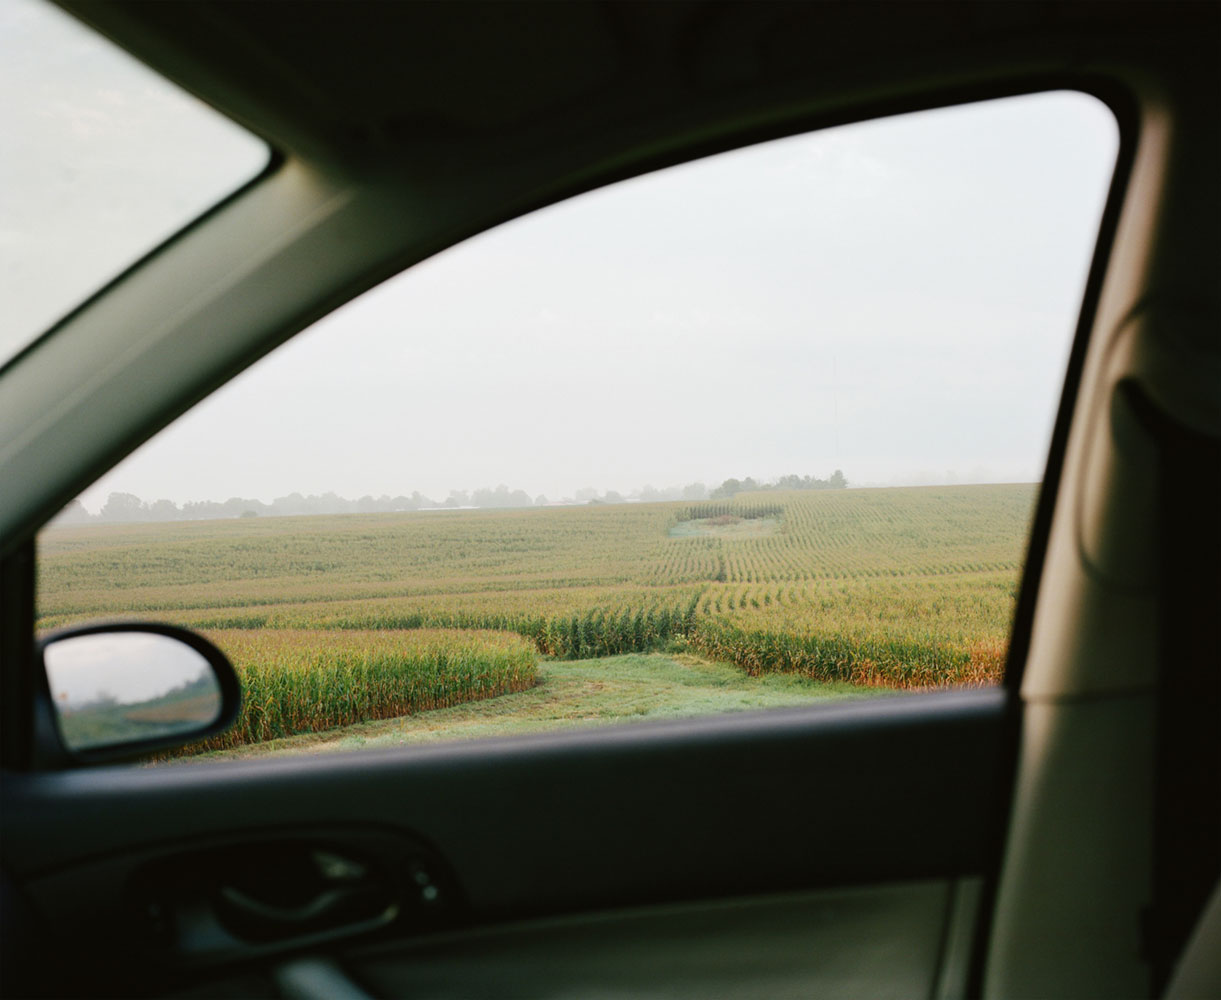
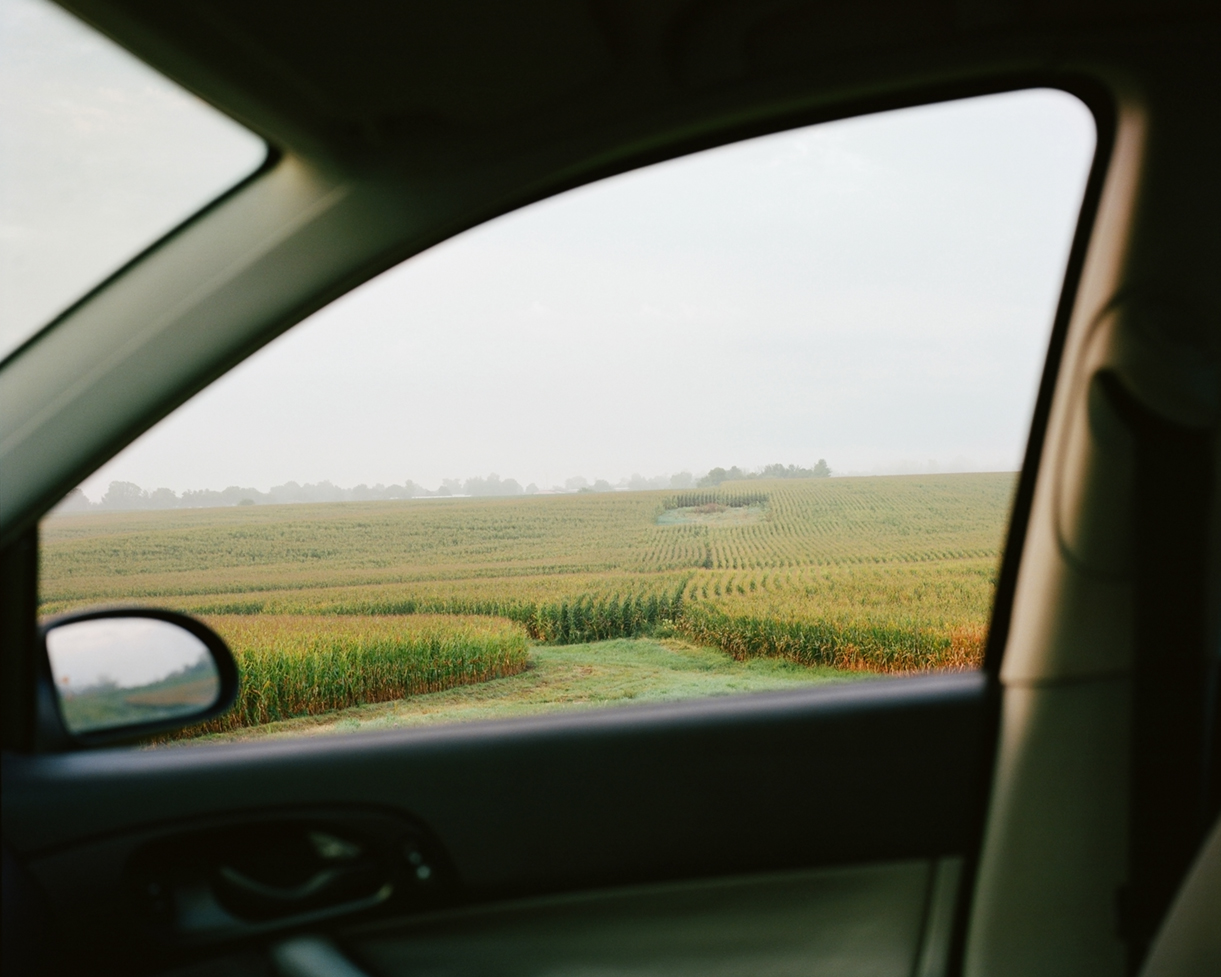
Revised Name of Page

diff --git a/index.html b/index.html
@@ -60,6 +60,11 @@
         <img class="jeremy-shirt" data-src="images/home/002_62510016_brandonwickenkamp.jpg">
       </div>
     </li>
+    <li class="photo">
+      <div class="image-wrapper">
+        <img class="field" data-src="images/home/003_49660001_brandonwickenkamp.jpg">
+      </div>
+    </li>
   </ul>
 
 </body>
